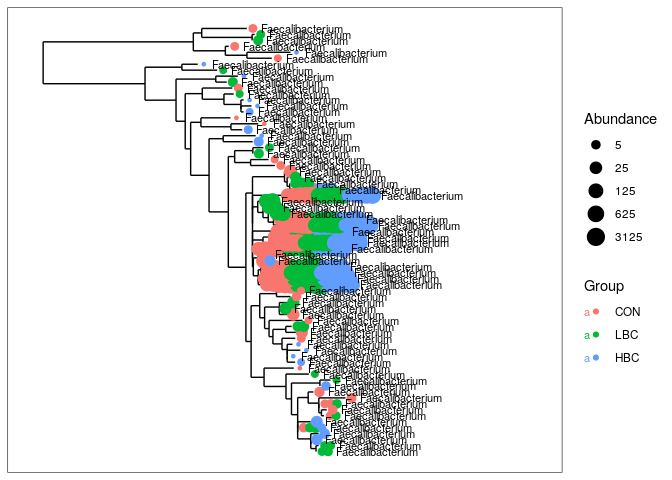
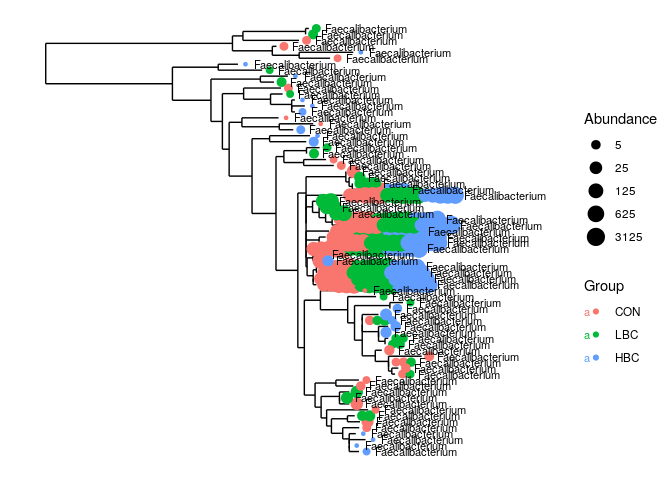
hyt

Changed region(s): [[0.0625, 0.0312, 0.8125, 0.9688]]

diff --git a/Article_report.md b/Article_report.md
@@ -164,6 +164,9 @@ sread(readFastq(fnFs.trim[1]))[1:5]
     ## [4]   222 GTGGGGAATATTGCACAATGGGGGAAACCCTGAT...TAAAGGGAGCGCAGGCGGGTAGACAAGTTGGGA
     ## [5]   222 GTGGGGAATATTGGGCAATGGGGGAAACCCTGAC...TAAAGGGCGCGTAGGCGGCCTGGTAAGTTTGAA
 
+Ici, j’ai été obligé de supprimer les amorces car trop de séquence
+considérer comme des chimères par la suite.
+
 ``` r
 sample.names <- sapply(strsplit(basename(fnFs), "_"), `[`, 1)
 ```
@@ -799,16 +802,16 @@ ggplot(dfP, aes(x = Group, y = Abundance, fill = Phylum_clean)) +
 ![](Article_report_files/figure-gfm/unnamed-chunk-34-1.png)<!-- -->
 
 ``` r
-## Agglomérer au niveau Genus + abondance relative
+## Agglomérer au niveau Genre + abondance relative
 ps_genus <- tax_glom(ps, taxrank = "Genus")
 ps_genus_rel <- transform_sample_counts(ps_genus, function(x) x / sum(x))  
 
-## Extraire et moyenner par Group × Genus
+## Extraire et moyenner par Groupe × Genre
 dfG <- psmelt(ps_genus_rel) %>%          
   group_by(Group, Genus) %>%
   summarise(Abundance = mean(Abundance), .groups = "drop")
 
-## Ne garder que les genres les plus abondants
+## Garde que les genres les plus abondants
 topN <- 10
 top_genus <- dfG %>%
   group_by(Genus) %>%
@@ -821,7 +824,7 @@ dfG$Genus_clean <- ifelse(dfG$Genus %in% top_genus,
                           as.character(dfG$Genus),
                           "Other")
 
-## 3) Barplot : une barre par groupe
+## Barplot 
 ggplot(dfG, aes(x = Group, y = Abundance, fill = Genus_clean)) +
   geom_bar(stat = "identity", position = "fill") +
   ylab("Relative abundance") +
@@ -835,27 +838,9 @@ ggplot(dfG, aes(x = Group, y = Abundance, fill = Genus_clean)) +
 ``` r
 library(Biostrings)
 library(ape)
-```
-
-    ## 
-    ## Attaching package: 'ape'
-
-    ## The following object is masked from 'package:dplyr':
-    ## 
-    ##     where
-
-    ## The following object is masked from 'package:ShortRead':
-    ## 
-    ##     zoom
-
-    ## The following object is masked from 'package:Biostrings':
-    ## 
-    ##     complement
-
-``` r
 library(phangorn)
 
-## Extraire les séquences (ligne 1)
+## Extraire les séquences 
 asv_seqs = getSequences(seqtab.nochim)
 
 ## Créer les IDs d’ASV et les mettre en noms de colonnes
@@ -885,7 +870,7 @@ dna <- dna_all[keep]
 asv_ids <- paste0("ASV", seq_along(dna))
 names(dna) <- asv_ids
 
-# Filtrer la table d’abondance et la taxo de la même façon
+# Filtrer la table d’abondance et la taxo 
 seqtab_filt <- seqtab.nochim[, keep, drop = FALSE]
 colnames(seqtab_filt) <- asv_ids
 
@@ -930,8 +915,17 @@ ps <- phyloseq(OTU, TAX, SAMP, TREE, RS)
 
 ps.Faecalibacterium <- subset_taxa(ps, Genus == "Faecalibacterium")
 
-plot_tree(ps.Faecalibacterium, color = "Group", label.tips = "Genus", size = "abundance", plot.margin = 0.5, ladderize = TRUE)
+plot_tree(ps.Faecalibacterium, color = "Group", label.tips = "Genus", size = "abundance")
 ```
+
+    ## Warning: `aes_string()` was deprecated in ggplot2 3.0.0.
+    ## ℹ Please use tidy evaluation idioms with `aes()`.
+    ## ℹ See also `vignette("ggplot2-in-packages")` for more information.
+    ## ℹ The deprecated feature was likely used in the phyloseq package.
+    ##   Please report the issue at <https://github.com/joey711/phyloseq/issues>.
+    ## This warning is displayed once every 8 hours.
+    ## Call `lifecycle::last_lifecycle_warnings()` to see where this warning was
+    ## generated.
 
 ![](Article_report_files/figure-gfm/unnamed-chunk-37-1.png)<!-- -->
 
@@ -982,7 +976,9 @@ plot_ordination(ps.rare, ord_rare, color = "Group") +
   geom_point(size = 4)
 ```
 
-![](Article_report_files/figure-gfm/unnamed-chunk-40-1.png)<!-- -->
+![](Article_report_files/figure-gfm/unnamed-chunk-40-1.png)<!-- --> On
+observe bien qu’avec et sans raréfaction, on voit que les groupe HBC et
+LBC sont très proche
 
 ### **La fonction plot network **
 
@@ -1010,20 +1006,149 @@ plot_network(jg, ps_20, "taxa", color = "Phylum")
     ## Call `lifecycle::last_lifecycle_warnings()` to see where this warning was
     ## generated.
 
-![](Article_report_files/figure-gfm/unnamed-chunk-41-1.png)<!-- -->
+![](Article_report_files/figure-gfm/unnamed-chunk-41-1.png)<!-- --> On
+voit ici que le phylum “Bacillota” est majoritairement présent dans les
+différents groupes
 
-### **La fonction plot heatmap **
+### **La heatmap **
 
 ``` r
-# Heatmap ordonnée (NMDS + Bray-Curtis), étiquettes = Group et Phylum
-ps_top <- prune_taxa(names(sort(taxa_sums(ps), decreasing = TRUE))[1:200], ps)
+# Garder les 50 taxa les plus abondants
+ps_top <- prune_taxa(names(sort(taxa_sums(ps), decreasing = TRUE))[1:50], ps)
 
-plot_heatmap(ps_top,
-             "NMDS", "bray", "Group", "Genus",
-             trans = log_trans(10))
+# Passer en abondances relatives
+ps_rel <- transform_sample_counts(ps_top, function(x) x / sum(x))
+
+# Extraire au format long
+df <- psmelt(ps_rel)  # colonnes : Sample, Group, Genus, Abundance, etc.
+
+# Moyenne d'abondance par Group × Genus
+df_mean <- df %>%
+  group_by(Group, Genus) %>%
+  summarise(Abundance = mean(Abundance), .groups = "drop")
+
+ggplot(df_mean, aes(x = Group, y = Genus, fill = Abundance)) +
+  geom_tile() +
+  scale_fill_gradient(low = "navy", high = "yellow") +
+  xlab("Group") +
+  ylab("Genus (mean relative abundance)") +
+  theme_bw() +
+  theme(axis.text.x = element_text(angle = 45, hjust = 1))
 ```
 
-    ## Warning in scale_fill_gradient(low = low, high = high, trans = trans, na.value
-    ## = na.value): log-10 transformation introduced infinite values.
-
 ![](Article_report_files/figure-gfm/unnamed-chunk-42-1.png)<!-- -->
+
+“Enterocloster” a une abondance relative bien supérieur au autres dans
+les groupe CON et HBC
+
+### **Statistique d’écart **
+
+``` r
+library(cluster)
+library(vegan)
+```
+
+    ## Loading required package: permute
+
+    ## 
+    ## Attaching package: 'vegan'
+
+    ## The following objects are masked from 'package:phangorn':
+    ## 
+    ##     diversity, treedist
+
+``` r
+ord <- ordinate(ps, method = "PCoA", distance = "bray")
+x <- ord$vectors
+x2 <- x[, 1:2]
+
+pam1 <- function(x, k) list(cluster = pam(x, k, cluster.only = TRUE))
+
+set.seed(123)  
+gs <- clusGap(x2,
+              FUN   = pam1,
+              K.max = 6,   
+              B     = 50)  
+print(gs, method = "Tibs2001SEmax")
+```
+
+    ## Clustering Gap statistic ["clusGap"] from call:
+    ## clusGap(x = x2, FUNcluster = pam1, K.max = 6, B = 50)
+    ## B=50 simulated reference sets, k = 1..6; spaceH0="scaledPCA"
+    ##  --> Number of clusters (method 'Tibs2001SEmax', SE.factor=1): 1
+    ##             logW     E.logW         gap     SE.sim
+    ## [1,]  0.21845859  0.1749525 -0.04350613 0.09446934
+    ## [2,] -0.06945245 -0.2208889 -0.15143643 0.10591954
+    ## [3,] -0.52312533 -0.5774425 -0.05431714 0.09749973
+    ## [4,] -0.89138850 -0.8491469  0.04224164 0.12518386
+    ## [5,] -1.16253692 -1.1143641  0.04817282 0.13637115
+    ## [6,] -1.48396723 -1.3490658  0.13490139 0.16115896
+
+Ici, le nombre de cluster recommandé est 1
+
+``` r
+## Fonction "wrapper"
+gap_statistic_ordination <- function(physeq,
+                                     method = "PCoA",
+                                     distance = "bray",
+                                     FUNcluster = "pam1",
+                                     K.max = 6,
+                                     axes = 1:2,
+                                     B = 50,
+                                     verbose = FALSE) {
+  ord_phy <- ordinate(physeq, method = method, distance = distance)
+  x_2   <- ord_phy$vectors
+
+  if (is.null(axes)) axes <- 1:ncol(x_2)
+  x_3   <- x_2[, axes, drop = FALSE]
+
+  if (FUNcluster == "pam1") {
+    FUNcluster <- function(x_3, k) list(cluster = pam(x_3, k, cluster.only = TRUE))
+  }
+
+  clusGap(x_3, FUN = FUNcluster, K.max = K.max, B = B, verbose = verbose)
+}
+```
+
+``` r
+plot_clusgap <- function(clusgap, title = "Gap statistic (clusters)") {
+  library(ggplot2)
+  gstab <- data.frame(clusgap$Tab, k = 1:nrow(clusgap$Tab))
+  ggplot(gstab, aes(k, gap)) +
+    geom_line() +
+    geom_point(size = 4) +
+    geom_errorbar(aes(ymin = gap - SE.sim, ymax = gap + SE.sim), width = 0.1) +
+    ggtitle(title) +
+    theme_bw()
+}
+```
+
+``` r
+gap <- gap_statistic_ordination(ps,
+                               method   = "PCoA",
+                               distance = "bray",
+                               K.max    = 6,
+                               B        = 50)
+print(gap, method = "Tibs2001SEmax")  
+```
+
+    ## Clustering Gap statistic ["clusGap"] from call:
+    ## clusGap(x = x_3, FUNcluster = FUNcluster, K.max = K.max, B = B, verbose = verbose)
+    ## B=50 simulated reference sets, k = 1..6; spaceH0="scaledPCA"
+    ##  --> Number of clusters (method 'Tibs2001SEmax', SE.factor=1): 1
+    ##             logW     E.logW         gap    SE.sim
+    ## [1,]  0.21845859  0.1934631 -0.02499551 0.1025612
+    ## [2,] -0.06945245 -0.2058074 -0.13635499 0.1221872
+    ## [3,] -0.52312533 -0.5721363 -0.04901100 0.1259239
+    ## [4,] -0.89138850 -0.8526790  0.03870950 0.1292941
+    ## [5,] -1.16253692 -1.1090601  0.05347682 0.1433906
+    ## [6,] -1.48396723 -1.3426463  0.14132091 0.1628891
+
+``` r
+plot_clusgap(gs)
+```
+
+![](Article_report_files/figure-gfm/unnamed-chunk-46-1.png)<!-- --> On
+observe ici que les “gaps” sont proche de 0 ou négative ce qui signifie
+que le clustering est soit similaire à un nuage aléatoire, soit qu’il
+n’est pas plus compact.
